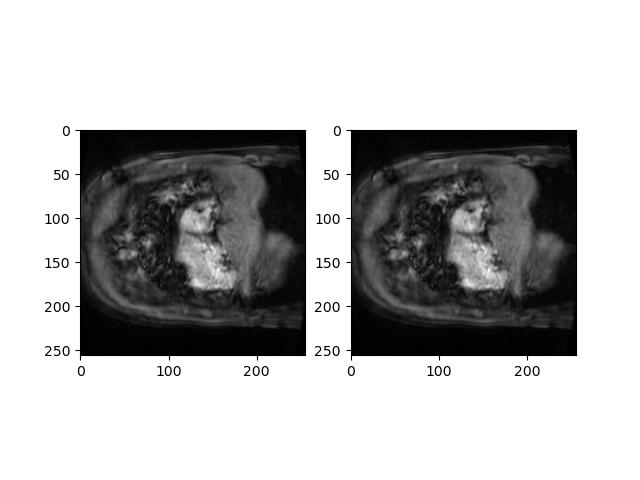
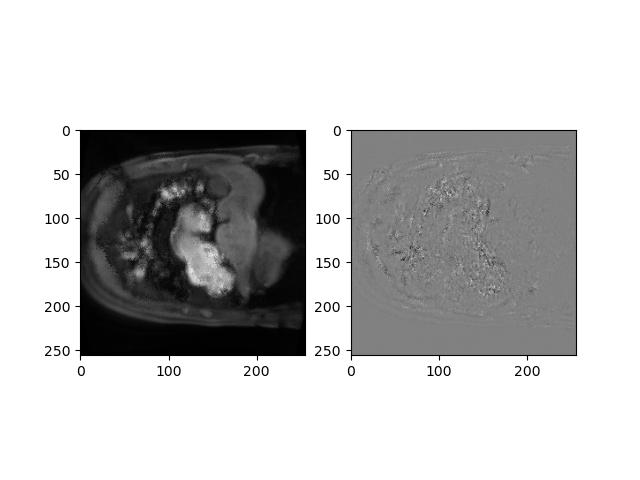
add free moving block

Changed region(s): [[0.5312, 0.25, 0.9062, 0.75], [0.125, 0.3125, 0.4688, 0.6875], [0.375, 0.3125, 0.4375, 0.4062]]

diff --git a/directDr.py b/directDr.py
@@ -1,0 +1,59 @@
+from audioop import add
+from dis import dis
+from utils import *
+from model import *
+import torch
+from torch.autograd import Variable
+import torch.optim as optim
+import torch.nn as nn
+from tqdm import tqdm
+import matplotlib.pyplot as plt
+
+
+DEIVICE='cpu'
+if torch.cuda.is_available():
+    DEIVICE='cuda'
+    print('cuda is avaliable!')
+data=get_data()
+data=linear_mapping(data)
+
+filtered=np.copy(data)
+N,W,D,T=data.shape
+for t in range(T):
+    filtered[:,:,:,t]=low_pass_3d(data[:,:,:,t],sigma=5)
+
+
+#print(data[:,:,20,15],filtered[:,:,20,15])
+data=torch.tensor(data,dtype=torch.float64).to(DEIVICE)
+filtered=torch.tensor(filtered,dtype=torch.float64).to(DEIVICE)
+ref_img=get_ref(filtered.cpu()).to(DEIVICE)
+#show_img(ref_img[:,:,20].cpu(),additional_data=ref_img[:,:,30].cpu(),name='ref.jpg')
+EPOCH=1600
+Alpha=0.05
+#fix here time is not correct
+for t in tqdm(range(T)):
+    dr=torch.randn((N,W,D,3),dtype=torch.double,device=DEIVICE,requires_grad=True)
+    dr=nn.init.kaiming_uniform(dr)
+    optimizer=optim.Adam([dr],0.04)
+    loss_history=[]
+    stepx=[]
+    for epoch in range(EPOCH):
+        optimizer.zero_grad()
+        out=sampler(data=filtered[:,:,:,t],displacement=dr,devices=DEIVICE)
+        divpen=divergence(dr)
+        loss=torch.sum(torch.abs(out-ref_img))+divpen*Alpha
+        loss.backward()
+
+        if epoch%10==0:
+            loss_history.append(loss.cpu().detach())
+            stepx.append(epoch)
+            print(f"{epoch}: {loss}")
+            print(f"{epoch} divpen: {divpen*Alpha}")
+        optimizer.step()
+        real=sampler(data=data[:,:,:,t].detach(),displacement=dr.detach(),devices=DEIVICE)
+        if epoch%100==0:
+            show_img(data=data[:,:,20,t].cpu(),additional_data=real[:,:,20].cpu(),name=f"epoch{t} {epoch}.png")
+            show_img(real[:,:,20].cpu(),additional_data=(data[:,:,20,t]-real[:,:,20]).cpu(),name=f"diff{t} {epoch}.png")
+            plot_loss(stepx,loss_history,epoch,t)
+    real=sampler(data=data[:,:,:,t].detach(),displacement=dr.detach(),devices=DEIVICE)
+    torch.save(real,f"processed{t}.pt")

diff --git a/directDr2.py b/directDr2.py
@@ -1,0 +1,53 @@
+from dis import dis
+from utils import *
+from model import *
+import torch
+from torch.autograd import Variable
+import torch.optim as optim
+import torch.nn as nn
+from tqdm import tqdm
+
+print(torch.cuda.get_device_name())
+DEIVICE='cpu'
+if torch.cuda.is_available():
+    DEIVICE='cuda:2'
+    print('cuda is avaliable!')
+data=get_data()
+data=linear_mapping(data)
+
+filtered=np.copy(data)
+N,W,D,T=data.shape
+for t in range(T):
+    filtered[:,:,:,t]=low_pass_3d(data[:,:,:,t],sigma=5)
+
+
+#print(data[:,:,20,15],filtered[:,:,20,15])
+data=torch.tensor(data,dtype=torch.float64).to(DEIVICE)
+filtered=torch.tensor(filtered,dtype=torch.float64).to(DEIVICE)
+ref_img=get_ref(filtered.cpu()).to(DEIVICE)
+
+EPOCH=1000
+Alpha=0.01
+
+for t in tqdm(range(40,T)):
+    dr=torch.randn((N,W,D,3),dtype=torch.double,device=DEIVICE,requires_grad=True)
+    dr=nn.init.kaiming_uniform(dr)
+    print(dr)
+    optimizer=optim.Adam([dr],0.03)
+    for epoch in range(EPOCH):
+        optimizer.zero_grad()
+        out=sampler(data=filtered[:,:,:,t],displacement=dr,devices=DEIVICE)
+        divpen=divergence(dr)
+        loss=torch.sum(torch.abs(out-ref_img))+divpen*Alpha
+        loss.backward()
+        
+        if epoch%10==0:
+            print(f"{epoch}: {loss}")
+            print(f"{epoch} divpen: {divpen*Alpha}")
+        optimizer.step()
+        real=sampler(data=data[:,:,:,t].detach(),displacement=dr.detach(),devices=DEIVICE)
+        if epoch%100==0:
+            show_img(data=data[:,:,20,t].cpu(),additional_data=real[:,:,20].cpu(),name=f"epoch{t} {epoch}.png")
+            show_img(real[:,:,20].cpu(),additional_data=(data[:,:,20,t]-real[:,:,20]).cpu(),name=f"diff{t} {epoch}.png")
+    real=sampler(data=data[:,:,:,t].detach(),displacement=dr.detach(),devices=DEIVICE)
+    torch.save(real,f"processed{t}.pt")

diff --git a/utils.py b/utils.py
@@ -70,6 +70,7 @@ def show_img(data,name="test.jpg",additional_data=None,argv=None):
         raise NotImplementedError("Only support 2/3 D data")
     
     plt.cla()
+    fig.clear(True)
 
 def low_pass_3d(data,sigma):
     """
@@ -172,3 +173,21 @@ def get_3d_coordinate(N,W,D,device='cpu'):
     xx,yy,zz=torch.meshgrid(xaxis,yaxis,zaxis)
     initial_crd=torch.stack((zz,yy,xx),dim=3).to(device)
     return initial_crd
+
+def divergence(field):
+    div_value=0
+    divs=torch.gradient(field,dim=[0,1,2])
+    for div in divs:
+        div_value+=torch.sum(torch.abs(div))
+    return div_value
+
+def plot_loss(step,loss,epoch,t):
+    fig,ax=plt.subplots()
+    ax.plot(step,loss,'r',lw=1)
+    ax.set_title("loss")
+    ax.set_xlabel("steps")
+    ax.set_ylabel("loss")
+    ax.legend("train_loss")
+    fig.savefig(f"loss at {epoch}num{t}.png")
+    fig.clear(True)
+

diff --git a/testSampler.py b/testSampler.py
@@ -10,6 +10,16 @@ from tqdm import tqdm
 data=get_data()
 data=torch.tensor(data)
 N,W,D,T=data.shape
+
+
+
+displace=torch.zeros((N,W,D,3))
+displace[:,:,:,2]=50
+out=sampler(displacement=displace,data=data[:,:,:,20])
+show_img(data=data[:,:,20,20],additional_data=out[:,:,20],name='x10.jpg')
+
+
+"""
 rotation_x=get_3d_rotation_matrix(20,'x').double()
 rotation_y=get_3d_rotation_matrix(20,'y').double()
 rotation_z=get_3d_rotation_matrix(20,'z').double()
@@ -27,3 +37,4 @@ new_coordinate=torch.reshape(torch.mm(torch.reshape(inic,(-1,3)),rotation_z),(N,
 #print(new_coordinate)
 out=sampler(displacement=new_coordinate-inic,data=data[:,:,:,20])
 show_img(data=data[:,:,20,20],additional_data=out[:,:,20],name='rotate20z.jpg')
+"""

diff --git a/show_video.py b/show_video.py
@@ -1,6 +1,12 @@
 import os
 import torch 
 from utils import *
+from tqdm import tqdm
 
-data=torch.load('processed69.pt')
-create_video(data)
+#data=torch.load('processed69.pt')
+data=torch.load('processed0.pt')
+data=data.unsqueeze(3)
+for i in tqdm(range(60)):
+    newdata=torch.load(f'processed{i}.pt').unsqueeze(3)
+    data=torch.cat((data,newdata),3)
+create_video(data.cpu(),name="alpha005lr004.gif")

diff --git a/testdiv.py b/testdiv.py
@@ -1,0 +1,14 @@
+from dis import dis
+from utils import *
+from model import *
+import torch
+from torch.autograd import Variable
+import torch.optim as optim
+import torch.nn as nn
+from tqdm import tqdm
+
+x=torch.zeros((3,4,5,3))
+x[:,:,:,0]=2
+x[:,:,:,1]=5
+x[:,:,:,2]=torch.randn((3,4,5))
+print(divergence(x))

diff --git a/multithread.py b/multithread.py
@@ -1,0 +1,11 @@
+import _thread
+
+from directDr import *
+
+try:
+    _thread.start_new_thread(main_run,(0,18,0,))
+    _thread.start_new_thread(main_run,(18,36,1,))
+    _thread.start_new_thread(main_run,(36,54,2,))
+    _thread.start_new_thread(main_run,(54,70,3,))
+except:
+    print('thread failed')

diff --git a/model.py b/model.py
@@ -59,3 +59,4 @@ class DisplaceNet(nn.Module):
         dis_z=torch.permute(dis_z,(0,2,3,4,1)).squeeze()
         displacement=torch.stack((dis_z,dis_y,dis_x),dim=3)
         return displacement
+
